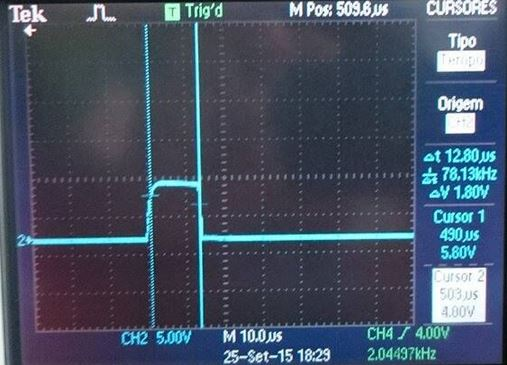
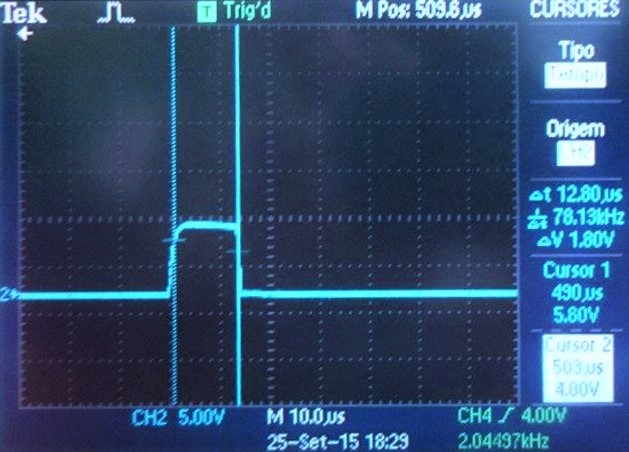
imagens do circuito de disparo alteradas e feitas algumas revisoes

diff --git a/lab1/epot_lab1.tex b/lab1/epot_lab1.tex
@@ -164,7 +164,7 @@ Feito isto, podem observar-se as formas de onda entre o ponto A e a massa e o po
 
 \begin{figure}[h]
 	\centering
-	\includegraphics[keepaspectratio=true, scale=0.8]{img/fig4}
+	\includegraphics[keepaspectratio=true, scale=0.55]{img/fig4}
 	\caption{Tensões nos pontos A e B.}
 	\label{fig:photo 1}
 	\vspace{-0.8em}
@@ -172,17 +172,19 @@ Feito isto, podem observar-se as formas de onda entre o ponto A e a massa e o po
 
 Tem-se assim no canal $1$ (amarelo) a tensão no ponto A e no canal $2$ (azul) a tensão no ponto B. Para o canal 1 observa-se uma onda quadrada compreendida entre 0 e 14,8 V, frequência de $2$ kHz, duração de impulso de $13$ $\mu$s e um fator de ciclo de 2,6\%. O canal $2$ apresenta uma onda retangular com $1,5$ V no qual existe um pico de tensão no flanco ascendente com $3,4$ V estabilizando ao fim de aproximadamente $15$ $\mu$s. A duração da onda retangular no canal 2 é de aproximadamente 480 $\mu$s o que leva a um fator de ciclo de 96\%. \unsure{o que queres dizer com "onda com 1.5V" e para o duty cycle contaste com aquele pedaço que tem a fase invertida?}
 
-Na \autoref{fig:photo 2} fez-se zoom de forma a que o pico de tensão da onda retangular no canal 2 se possa observar melhor, assim como a relação entre as tensões em A e B.
+Na \autoref{fig:photo 2} fez-se \textit{zoom} de forma a que o pico de tensão da onda retangular no canal 2 se possa observar melhor, assim como a relação entre as tensões em A e B.
+
+\pagebreak
 
 \begin{figure}[h]
 	\centering
-	\includegraphics[keepaspectratio=true, scale=0.8]{img/fig5}
-	\caption{Tensões nos pontos A e B.}
+	\includegraphics[keepaspectratio=true, scale=0.6]{img/fig5}
+	\caption{\textit{Zoom} das tensões nos pontos A e B.}
 	\label{fig:photo 2}
 	\vspace{-0.8em}
 \end{figure}
 
-Este pico deve-se a que no momento em que o transístor entra em condução, a bobina encontra-se magnetizada ficando os díodos diretamente polarizado, sendo que a tensão em B será a soma entre a tensão no primário do transformador e Vcc. Após o período de desmagnetização esta estabiliza no valor devido, Vcc. 
+Este pico deve-se a que, no momento em que o transístor entra em condução, a bobina encontra-se magnetizada ficando os díodos diretamente polarizados, sendo que a tensão em B será a soma entre a tensão no primário do transformador e VCC. Após o período de desmagnetização esta estabiliza no valor devido, VCC. 
 
 Existe também um atraso apreciável entre a tensão em A e B que se deve ao tempo de passagem do transístor da saturação para o corte.
 
@@ -190,23 +192,26 @@ Existe também um atraso apreciável entre a tensão em A e B que se deve ao tem
 
 Considera-se agora relevante enunciar a funcionalidade dos díodos presentes no circuito. Em primeiro tem-se o díodo ligado ao primário do transformador cuja função é essencialmente garantir a continuidade da corrente quando o transístor passa ao corte, ficando assim a bobina salvaguardada de potenciais descontinuidades na corrente (o que é essencial uma vez que, na bobina, a corrente é variável de estado), garantindo o bom funcionamento do circuito. 
 
-Tem-se ainda o díodo de Zenner cujo objetivo é diminuir o tempo de desmagnetização da bobina. Isto é devido à superior tensão imposta por este díodo aos terminais do transformador (tensão de Zenner), elevando assim a corrente que ali circula. Sendo assim, a corrente irá circular nos díodos até que a desmagnetização na bobina seja completa. \change{esta frase ficou um pouco estranha, nao percebi bem o que querias dizer}
+Tem-se ainda o díodo Zenner cujo objetivo é diminuir o tempo de desmagnetização da bobina. Isto é devido à superior tensão imposta por este díodo aos terminais do transformador (tensão de Zenner), elevando assim a corrente que ali circula. Sendo assim, a corrente irá circular nos díodos até que a desmagnetização na bobina seja completa. \change{esta frase ficou um pouco estranha, nao percebi bem o que querias dizer}
 
 \subsubsection{Tensão no primário do transformador em função do díodo Zenner}
 
-A alteração provocada pelo díodo \textit{Zenner} no comportamento do circuito é evidenciada na \autoref{fig:photo 3} e \autoref{fig:photo 4}.
+A alteração provocada pelo díodo Zenner no comportamento do circuito é evidenciada na \autoref{fig:photo 3} e \autoref{fig:photo 4}.
+
+\pagebreak
 
 \begin{figure}[h]
 	\centering
-	\includegraphics[keepaspectratio=true, scale=0.14]{img/DSC0118}
+	\includegraphics[keepaspectratio=true, scale=0.15]{img/DSC0118}
 	\caption{Tensão no ponto B com o díodo Zenner.}
-	\label{fig:photo 2}
+	\label{fig:photo 3}
 	\vspace{-0.8em}
 \end{figure}
 
 \begin{figure}[h]
+	\vspace{3mm}
 	\centering
-	\includegraphics[keepaspectratio=true, scale=0.8]{img/fig7}
+	\includegraphics[keepaspectratio=true, scale=0.63]{img/fig7}
 	\caption{Tensão no ponto B sem o díodo Zenner.}
 	\label{fig:photo 4}
 	\vspace{-0.8em}
@@ -214,7 +219,7 @@ A alteração provocada pelo díodo \textit{Zenner} no comportamento do circuito
 
 Na \autoref{fig:photo 3} pode concluir-se que o tempo de desmagnetização é relativamente curto, cerca de $30$ $\mu$s em oposição ao tempo de desmagnetização observável na \autoref{fig:photo 4}, onde será aproximadamente $225$ $\mu$s, valor muito superior ao caso em que se faz uso do díodo Zenner.
 
-A tensão de Zenner tem um valor de $-17$ V em oposição à tensão VAK de um díodo normal, $0,7$ V, o que leva a uma dissipação muito mais rápida e por consequência acelera a desmagnetização. O díodo Zenner conduz quando inversamente polarizado (neste caso, a tensão de Zenner é de $-17$ V), o que leva a uma dissipação muito mais rápida, e consequentemente acelera o processo de desmagnetização. Verifica-se que, em ambos os casos, a área da curva de magnetização é idêntica à área da curva de desmagnetização. Sem Zenner, o valor da curva de desmagnetização é mais baixo, pelo que leva mais tempo a satisfazer este requisito. 
+O díodo Zenner conduz quando inversamente polarizado (neste caso, a tensão de Zenner é de $-17$ V), o que leva a uma dissipação muito mais rápida, e consequentemente acelera o processo de desmagnetização. Verifica-se que, em ambos os casos, a área da curva de magnetização é idêntica à área da curva de desmagnetização. Sem Zenner, o valor da curva de desmagnetização é mais baixo, pelo que leva mais tempo a satisfazer este requisito. 
 
 \subsubsection{Tensão entre a \textit{gate} e o cátodo do tiristor}
 
@@ -222,15 +227,15 @@ Seguidamente visualizou-se a tensão aos terminais da resistência R$3$,  V\text
 
 \begin{figure}[h]
 	\centering
-	\includegraphics[keepaspectratio=true, scale=0.8]{img/fig8}
+	\includegraphics[keepaspectratio=true, scale=0.67]{img/fig8}
 	\caption{Tensão V\textsubscript{GK} na resistência R$3$.}
 	\label{fig:photo 5}
 	\vspace{-0.8em}
 \end{figure}
 
-Trata-se portanto de um sinal retangular com duração de 13 $\mu$s, amplitude de aproximadamente 8 V e um fator de ciclo de 2,6 \% que são as características necessárias para se ter o sinal de comando do tiristor.
+Trata-se portanto de um sinal retangular com duração de impulso de 13 $\mu$s, amplitude de aproximadamente 8 V e um fator de ciclo de 2,6\% que são as características necessárias para se ter o sinal de comando do tiristor.
 
-De forma a que a primeira parte do trabalho esteja concluída procedeu-se a desligar os terminais da resistência, seguido da realização das ligação dos pontos G e K à \textit{Gate} e Cátodo do tiristor respetivamente.
+De forma a que a primeira parte do trabalho esteja concluída passou-se a desligar os terminais da resistência, seguido da realização das ligação dos pontos G e K à \textit{gate} e cátodo do tiristor, respetivamente.
 
 \subsection{Estudo do circuito de potência}
 
